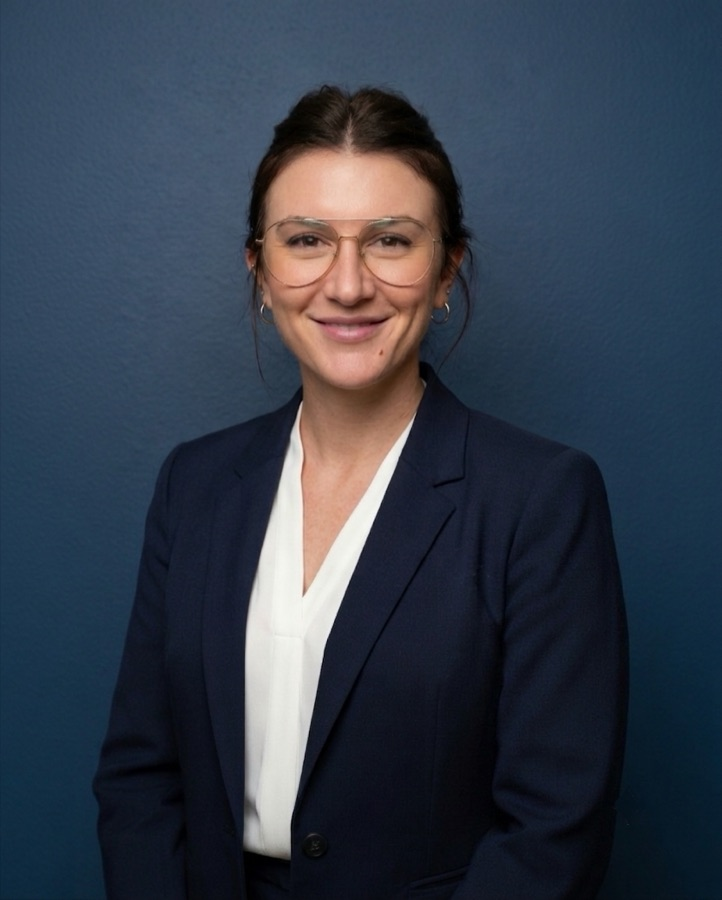
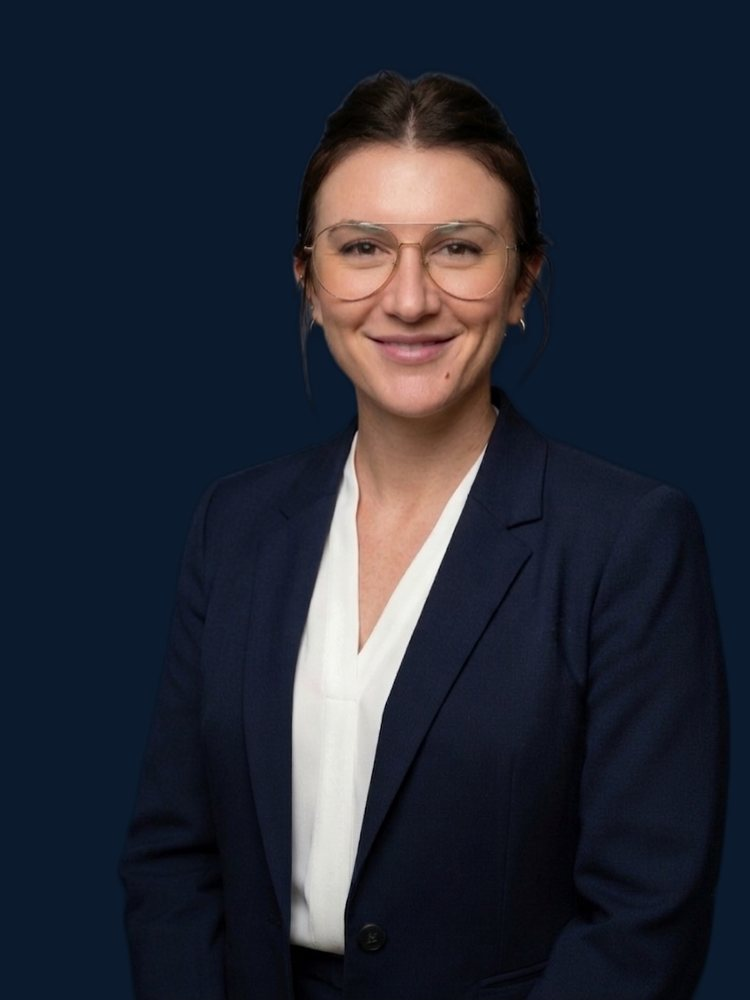
feat(team): fondo unico de estudio para las 14 fotos + filas definidas por Ariel
Todas las fotos recortadas (rembg/u2net — la persona queda pixel-perfecta, no
se toca la cara) y montadas sobre el navy de la marca (#0c1a2e, el mismo de la
card, asi la foto se funde con ella). Todas a 750x1000 (el aspect 3/4 de la
card) y de 39 a 137KB — antes habia retratos de hasta 1.4MB.

Filas exactas (Ariel, 18-ago):
  1. Inma · Daniel · Antonio · Ariel        (liderazgo)
  2. Pilar · Reyna · Giuliana · Romina
  3. Javier · Nelson · Larisa               (equipo de desarrollo)
  4. Fabiola · Rocio · Delfina

El grid operativo ahora renderiza filas explicitas (filasOperativo), no un
solo array que envuelve donde cae. Gladymar quedo fuera de las filas por la
instruccion de Ariel de ese dia (su entrada sigue en el array por si vuelve).

diff --git a/src/data/equipo.ts b/src/data/equipo.ts
@@ -1,16 +1,16 @@
-import fotoInma from '@/assets/equipo/inma.png'
-import fotoDaniel from '@/assets/equipo/daniel.png'
-import fotoAntonio from '@/assets/equipo/antonio.png'
-import fotoPilar from '@/assets/equipo/mariangel.png'
+import fotoInma from '@/assets/equipo/inma.jpg'
+import fotoDaniel from '@/assets/equipo/daniel.jpg'
+import fotoAntonio from '@/assets/equipo/antonio.jpg'
+import fotoPilar from '@/assets/equipo/mariangel.jpg'
 import fotoAriel from '@/assets/equipo/ariel.jpg'
 import fotoGladymar from '@/assets/equipo/gladymar.png'
-import fotoReyna from '@/assets/equipo/reyna.png'
-import fotoFabiola from '@/assets/equipo/fabiola.png'
-import fotoLarisa from '@/assets/equipo/larisa.png'
-import fotoDelfina from '@/assets/equipo/delfina.png'
-import fotoNelson from '@/assets/equipo/nelson.png'
-import fotoJavier from '@/assets/equipo/javier-2.png'
-import fotoRocio from '@/assets/equipo/rocio.png'
+import fotoReyna from '@/assets/equipo/reyna.jpg'
+import fotoFabiola from '@/assets/equipo/fabiola.jpg'
+import fotoLarisa from '@/assets/equipo/larisa.jpg'
+import fotoDelfina from '@/assets/equipo/delfina.jpg'
+import fotoNelson from '@/assets/equipo/nelson.jpg'
+import fotoJavier from '@/assets/equipo/javier-2.jpg'
+import fotoRocio from '@/assets/equipo/rocio.jpg'
 import fotoGiuliana from '@/assets/equipo/giuliana.jpg'
 import fotoRomina from '@/assets/equipo/romina.jpg'
 
@@ -31,8 +31,8 @@ export const equipo: TeamMember[] = [
   { id: 1, nombre: 'Daniel Crespo', foto: fotoDaniel, rol: 'CEO', rolEn: 'CEO', email: 'dcrespo@globaltalent-connections.com', linkedin: 'https://www.linkedin.com/in/daniel-crespo-garc%C3%ADa/', nivel: 'direccion' },
 
   // LIDERES
-  { id: 3, nombre: 'Antonio Cabello', foto: fotoAntonio, rol: 'Head of Finance', rolEn: 'Head of Finance', email: 'acabello@globaltalent-connections.com', linkedin: 'https://www.linkedin.com/in/antonio-jesus-cabello-barea/', nivel: 'lider' },
-  { id: 4, nombre: 'M. Pilar Marin', foto: fotoPilar, rol: 'HR & Commercial Lead', rolEn: 'HR & Commercial Lead', email: 'mmarin@globaltalent-connections.com', linkedin: 'https://www.linkedin.com/in/mariangel-pilar-marin-a786a8148/', nivel: 'lider' },
+  { id: 3, nombre: 'Antonio Cabello', foto: fotoAntonio, rol: 'Head of Finance', rolEn: 'Head of Finance', email: 'acabello@globaltalent-connections.com', linkedin: 'https://www.linkedin.com/in/antonio-jesus-cabello-barea/', nivel: 'direccion' },
+  { id: 4, nombre: 'M. Pilar Marin', foto: fotoPilar, rol: 'HR & Commercial Lead', rolEn: 'HR & Commercial Lead', email: 'mmarin@globaltalent-connections.com', linkedin: 'https://www.linkedin.com/in/mariangel-pilar-marin-a786a8148/', nivel: 'operativo' },
   { id: 5, nombre: 'Ariel Jimenez', foto: fotoAriel, rol: 'AI & Automation Lead', rolEn: 'AI & Automation Lead', email: 'ajimenez@globaltalent-connections.com', linkedin: '', nivel: 'lider' },
   { id: 6, nombre: 'Gladymar Torres', foto: fotoGladymar, rol: 'HR Business Partner', rolEn: 'HR Business Partner', email: 'gtorres@globaltalent-connections.com', linkedin: 'https://www.linkedin.com/in/gladymar-torres-825827188/', nivel: 'operativo' },
 
@@ -48,5 +48,16 @@ export const equipo: TeamMember[] = [
   { id: 17, nombre: 'Rocío Rojas', foto: fotoRocio, rol: 'Quality Analyst', rolEn: 'Quality Analyst', email: 'rrojas@globaltalent-connections.com', linkedin: '', nivel: 'operativo' },
 ]
 
-export const direccion = equipo.filter(m => m.nivel === 'direccion' || m.nivel === 'lider')
-export const operativo = equipo.filter(m => m.nivel === 'operativo')
+const porId = (ids: number[]) =>
+  ids.map(id => equipo.find(m => m.id === id)).filter((m): m is TeamMember => !!m)
+
+// Filas de la pagina /nosotros tal como las definio Ariel (18-ago-2026).
+// El orden ES el layout: cada sub-array es una fila del grid.
+// Gladymar quedo fuera de las filas por instruccion de Ariel de ese dia.
+export const direccion = porId([18, 1, 3, 5])           // Inma · Daniel · Antonio · Ariel
+export const filasOperativo: TeamMember[][] = [
+  porId([4, 9, 21, 22]),   // Pilar · Reyna · Giuliana · Romina
+  porId([12, 11, 10]),     // Javier · Nelson · Larisa (equipo de desarrollo)
+  porId([13, 17, 15]),     // Fabiola · Rocio · Delfina
+]
+export const operativo = filasOperativo.flat()

diff --git a/src/pages/Nosotros.tsx b/src/pages/Nosotros.tsx
@@ -10,7 +10,7 @@ function LinkedinIcon({ className }: { className?: string }) {
   )
 }
 import { RevealSection } from '@/components/shared/RevealSection'
-import { direccion, operativo, type TeamMember } from '@/data/equipo'
+import { direccion, filasOperativo, type TeamMember } from '@/data/equipo'
 
 function TeamCard({ member, size = 'lg', lang }: { member: TeamMember; size?: 'lg' | 'sm'; lang: 'es' | 'en' }) {
   const isLg = size === 'lg'
@@ -141,9 +141,13 @@ export default function NosotrosPage() {
             <span className="font-label uppercase tracking-widest text-white/60 text-xs font-bold block">{t('nosotros_equipo_operativo')}</span>
           </div>
 
-          <div className="grid grid-cols-2 md:grid-cols-4 gap-6 lg:gap-8">
-            {operativo.map(member => (
-              <TeamCard key={member.id} member={member} size="sm" lang={lang} />
+          <div className="space-y-6 lg:space-y-8">
+            {filasOperativo.map((fila, i) => (
+              <div key={i} className="grid grid-cols-2 md:grid-cols-4 gap-6 lg:gap-8">
+                {fila.map(member => (
+                  <TeamCard key={member.id} member={member} size="sm" lang={lang} />
+                ))}
+              </div>
             ))}
           </div>
         </div>
